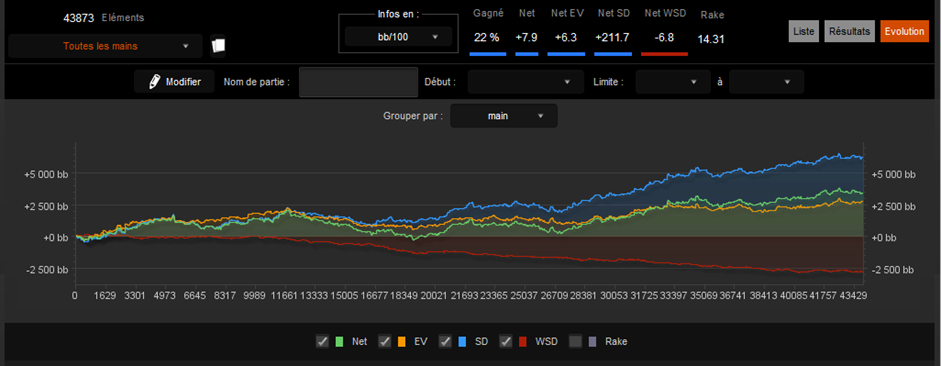
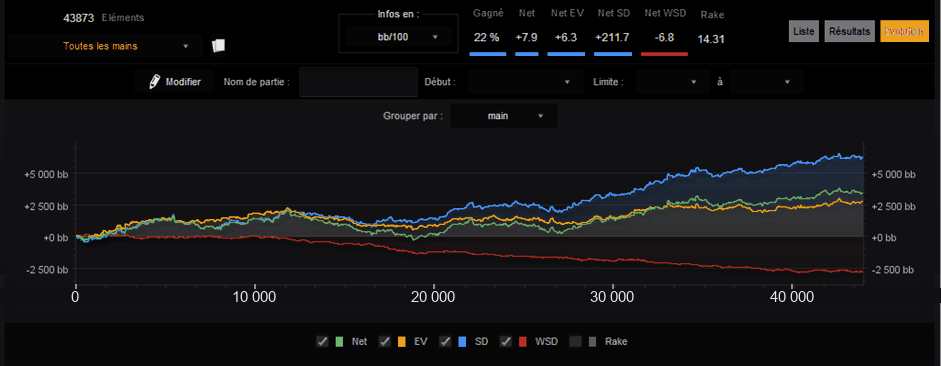
Results: one dark style for all graphs, readable hand counts

diff --git a/index.html b/index.html
@@ -258,22 +258,22 @@
       <article class="slide active">
         <header><p class="jump"><span>NL100</span><i>→</i><strong>NL2000</strong></p></header>
         <div class="gbox">
-          <div class="g before"><img src="img/resultat-1-avant.webp?v=2" alt="Courbe de gains avant RTS" loading="lazy"></div>
-          <div class="g after"><img src="img/resultat-1-apres.webp?v=2" alt="Courbe de gains après RTS" loading="lazy"></div>
+          <div class="g before"><img src="img/resultat-1-avant.webp?v=9" alt="Courbe de gains avant RTS" loading="lazy"></div>
+          <div class="g after"><img src="img/resultat-1-apres.webp?v=9" alt="Courbe de gains après RTS" loading="lazy"></div>
         </div>
       </article>
       <article class="slide">
         <header><p class="jump"><span>NL100</span><i>→</i><strong>NL2000</strong></p></header>
         <div class="gbox">
-          <div class="g before"><img src="img/resultat-2-avant.webp?v=4" alt="Courbe de gains avant RTS" loading="lazy"></div>
-          <div class="g after"><img src="img/resultat-2-apres.webp?v=5" alt="Courbe de gains après RTS" loading="lazy"></div>
+          <div class="g before"><img src="img/resultat-2-avant.webp?v=9" alt="Courbe de gains avant RTS" loading="lazy"></div>
+          <div class="g after"><img src="img/resultat-2-apres.webp?v=9" alt="Courbe de gains après RTS" loading="lazy"></div>
         </div>
       </article>
       <article class="slide">
         <header><p class="jump"><span>NL100</span><i>→</i><strong>NL600</strong></p></header>
         <div class="gbox tall">
-          <div class="g before"><img src="img/resultat-5-avant.webp?v=2" alt="Courbe de gains avant RTS" loading="lazy"></div>
-          <div class="g after"><img src="img/resultat-5-apres.webp?v=2" alt="Courbe de gains après RTS" loading="lazy"></div>
+          <div class="g before"><img src="img/resultat-5-avant.webp?v=9" alt="Courbe de gains avant RTS" loading="lazy"></div>
+          <div class="g after"><img src="img/resultat-5-apres.webp?v=9" alt="Courbe de gains après RTS" loading="lazy"></div>
         </div>
       </article>
       <article class="slide pending">
